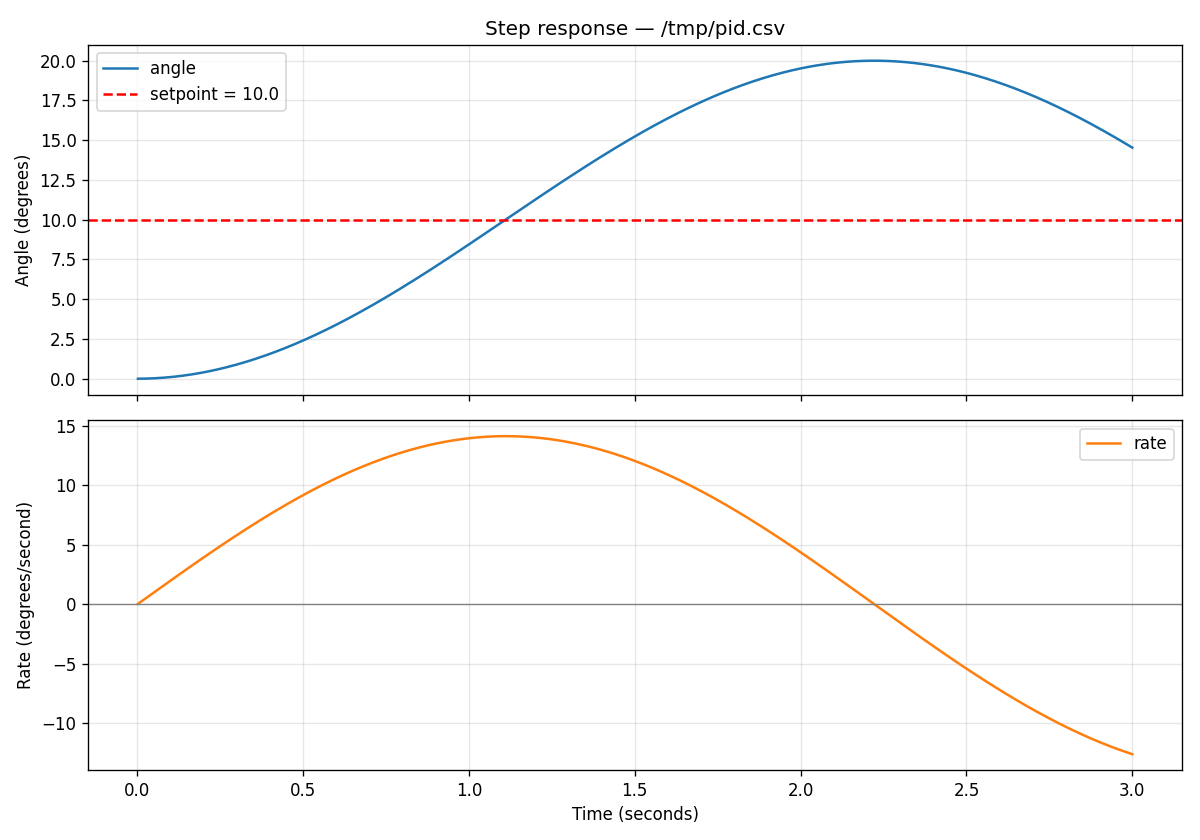
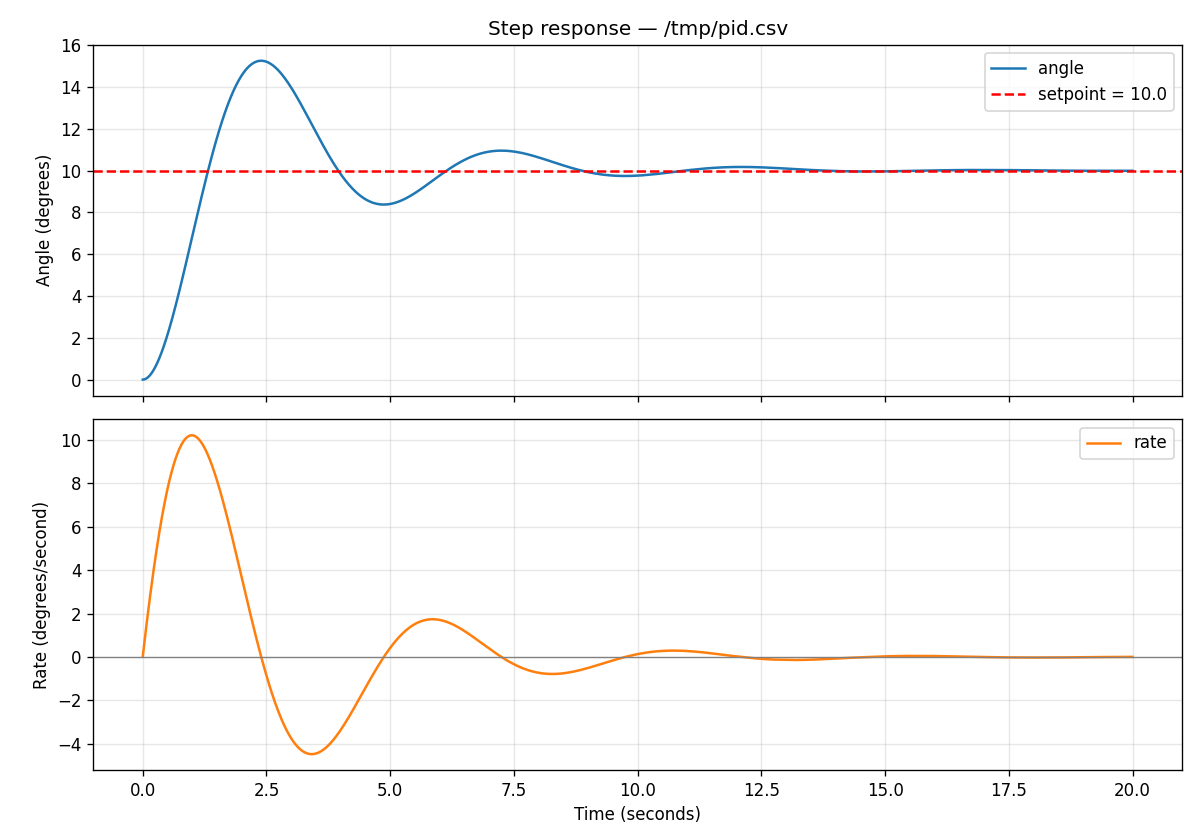
PID: add I term with anti-windup, zero steady-state error

diff --git a/algorithm/pid.c b/algorithm/pid.c
@@ -1,16 +1,33 @@
 #include "pid.h"
 
-void pid_init(pid_t *pid, fix16_t kp) {
+void pid_init(pid_t *pid, fix16_t kp, fix16_t ki, fix16_t kd, fix16_t i_limit) {
     pid->kp = kp;
+    pid->ki = ki;
+    pid->kd = kd;
+    pid->integral = 0;
+    pid->integral_limit = i_limit;
     pid->prev_measurement = 0;
 }
 
 fix16_t pid_update(pid_t *pid, fix16_t setpoint, fix16_t measurement, fix16_t dt) {
-    (void)dt;   /* unused until D and I are added */
-
     fix16_t error = fix16_sub(setpoint, measurement);
-    fix16_t output = fix16_mul(pid->kp, error);
+
+    /* P */
+    fix16_t p_term = fix16_mul(pid->kp, error);
+
+    /* I: accumulate error over time, clamped */
+    pid->integral = fix16_add(pid->integral, fix16_mul(error, dt));
+    if (pid->integral >  pid->integral_limit) pid->integral =  pid->integral_limit;
+    if (pid->integral < fix16_sub(0, pid->integral_limit))
+        pid->integral = fix16_sub(0, pid->integral_limit);
+    fix16_t i_term = fix16_mul(pid->ki, pid->integral);
+
+    /* D on measurement, negated */
+    fix16_t change = fix16_sub(measurement, pid->prev_measurement);
+    fix16_t derivative = fix16_div(change, dt);
+    fix16_t d_term = fix16_mul(pid->kd, fix16_sub(0, derivative));
 
     pid->prev_measurement = measurement;
-    return output;
+
+    return fix16_add(fix16_add(p_term, i_term), d_term);
 }

diff --git a/test/test_pid.c b/test/test_pid.c
@@ -7,14 +7,14 @@ int main(void) {
     pid_t   pid;
 
     plant_init(&p, F16(1.0));
-    pid_init(&pid, F16(2.0));
+    pid_init(&pid, F16(2.0), F16(0.5), F16(1.0), F16(50.0));
 
     fix16_t dt       = F16(0.002);
     fix16_t setpoint = F16(10.0);
 
     printf("time,angle,rate\n");
 
-    for (int i = 0; i < 1500; i++) {
+    for (int i = 0; i < 10000; i++) {
         fix16_t torque = pid_update(&pid, setpoint, p.angle, dt);
         plant_step(&p, torque, dt);
 
@@ -23,6 +23,8 @@ int main(void) {
                (double)p.angle / 65536.0,
                (double)p.rate  / 65536.0);
     }
+    fprintf(stderr, "final integral raw = %d  (%.4f)\n",
+    pid.integral, (double)pid.integral / 65536.0);
 
     return 0;
 }

diff --git a/algorithm/pid.h b/algorithm/pid.h
@@ -4,11 +4,15 @@
 #include "fix16.h"
 
 typedef struct {
-    fix16_t kp;              /* proportional gain */
+    fix16_t kp;
+    fix16_t ki;
+    fix16_t kd;
+    fix16_t integral;
+    fix16_t integral_limit;
     fix16_t prev_measurement;
 } pid_t;
 
-void    pid_init(pid_t *pid, fix16_t kp);
+void    pid_init(pid_t *pid, fix16_t kp, fix16_t ki, fix16_t kd, fix16_t i_limit);
 fix16_t pid_update(pid_t *pid, fix16_t setpoint, fix16_t measurement, fix16_t dt);
 
 #endif
